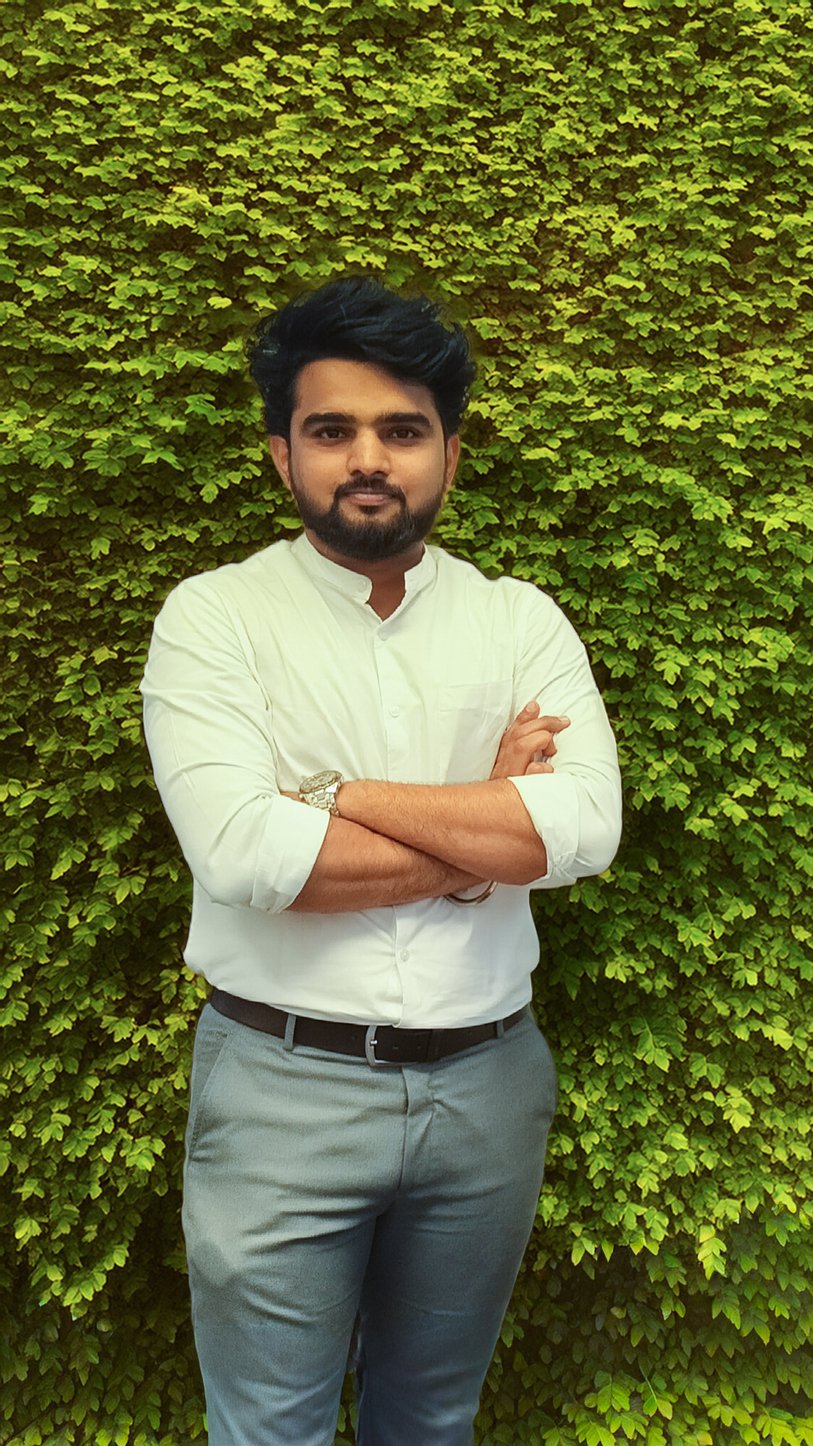
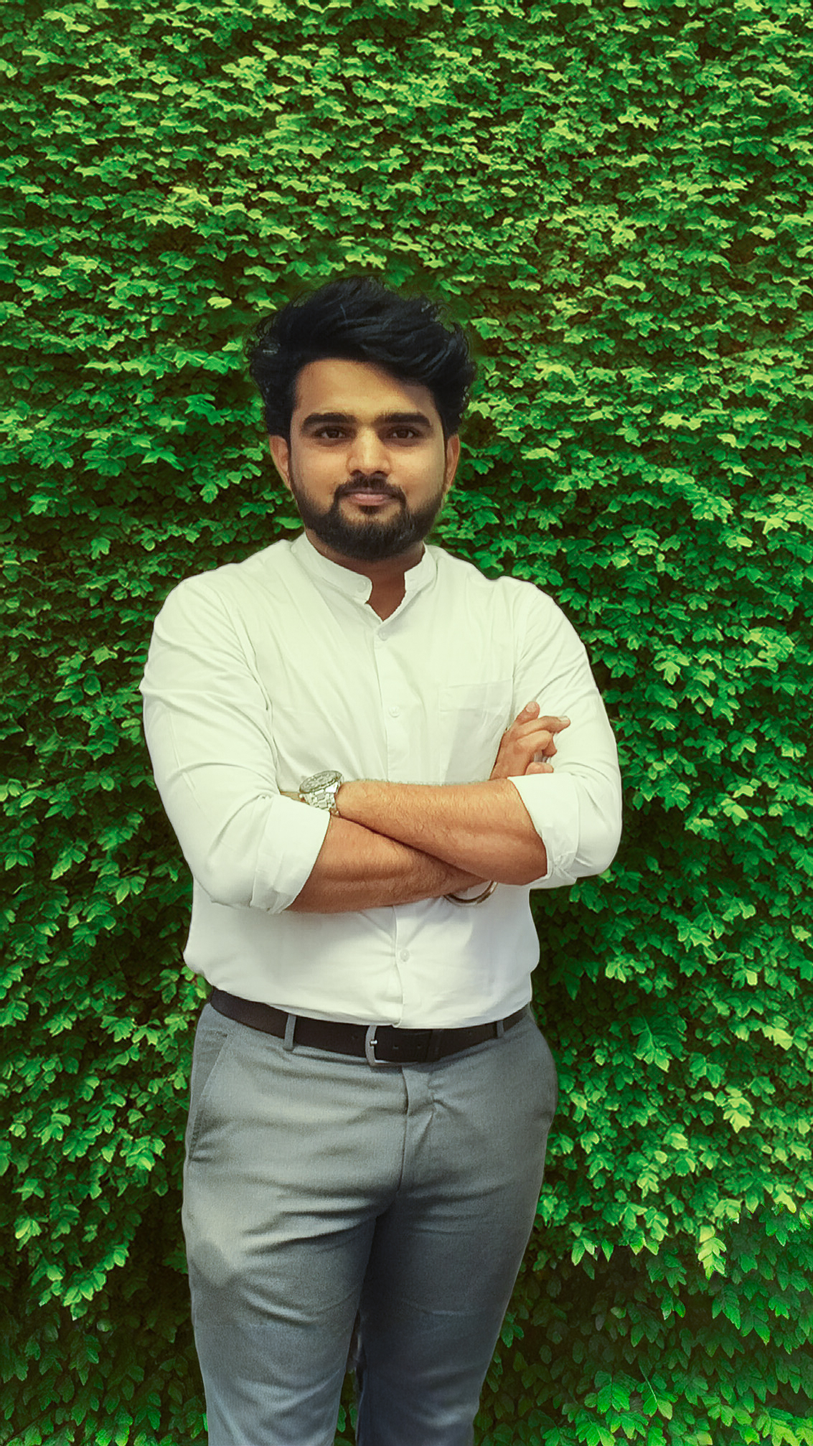
final p

diff --git a/team.html b/team.html
@@ -92,9 +92,9 @@
         data-bio="Builds relationships with ICU champions, coordinates multi-site pilots, and captures clinician feedback that guides the next sprint of product improvements."
         data-linkedin="https://www.linkedin.com/in/geet-patil"
         data-tags="CLINICAL PILOTS|PARTNERSHIPS|OPERATIONS SCALE"
-        data-photo="assessts/New%20Team/Geet%20Patil.png">
+        data-photo="assessts/New%20Team/Geet%20Patil.jpg">
         <div class="team-card__photo">
-          <img src="assessts/New%20Team/Geet%20Patil.png" alt="Portrait of Geet Patil">
+          <img src="assessts/New%20Team/Geet Patil.jpg" alt="Portrait of Geet Patil">
         </div>
         <span class="team-card__name">Geet Patil</span>
         <span class="team-card__role">Clinical Operations &amp; Partnerships</span>
@@ -186,9 +186,9 @@
             <span class="team-card__role">Consultant Anaesthesiologist &amp; Social Entrepreneur</span>
           </button>
           <button class="team-card team-card--advisor" type="button"
-            aria-label="Hemant Punekar - Senior Principal Engineer, Simulation (Synopsys)"
-            data-name="Hemant Punekar"
-            data-role="Senior Principal Engineer, Simulation (Synopsys)"
+          aria-label="Hemant Punekar - Consultancy"
+          data-name="Hemant Punekar"
+          data-role="Consultancy"
             data-bio="Senior Principal Engineer at Synopsys Inc. focusing on engineering simulations for complex products. His expertise spans engineering simulations, digital transformation, and systems thinking, backed by a strong CFD and physics-based modeling background with publications on free-surface flows and thermal management. Over 25 years he has helped global teams use simulation to improve performance, reliability, and time-to-market while enabling people and building high-performing, distributed teams. He frequently advises innovators and startups on simulation-driven product design."
             data-linkedin="https://www.linkedin.com/in/hemant-punekar"
             data-tags="ENGINEERING SIMULATION|DIGITAL TRANSFORMATION|SYSTEMS THINKING"
@@ -197,12 +197,12 @@
               <img src="assessts/Advisors/hemant-punekar.jpg" alt="Portrait of Hemant Punekar">
             </div>
             <span class="team-card__name">Hemant Punekar</span>
-            <span class="team-card__role">Senior Principal Engineer, Simulation</span>
+            <span class="team-card__role">Consultancy</span>
           </button>
           <button class="team-card team-card--advisor" type="button"
-            aria-label="Aman Midha - Connected Car Tech Leader"
-            data-name="Aman Midha"
-            data-role="Connected Car Tech Leader, Hyundai AutoEver India"
+          aria-label="Aman Midha - Consultancy and Business Mentor"
+          data-name="Aman Midha"
+          data-role="Consultancy and Business Mentor"
             data-bio="Connected Car Tech Leader at Hyundai AutoEver India working on software-driven vehicle technologies. Focused on connected cars, in-vehicle intelligence, and future mobility experiences while working end-to-end from strategy to rollout. Earlier co-founded Biosense to build affordable diagnostic devices and chronic-care solutions across India. He frequently writes about software-defined vehicles, digital twins, and data-driven mobility platforms. Across healthcare and automotive he builds socially relevant, scalable technology and advises innovators at the intersection of impact and mobility."
             data-linkedin="https://www.linkedin.com/in/amanmidha"
             data-tags="CONNECTED CARS|SOFTWARE-DEFINED VEHICLES|IMPACT TECH"
@@ -211,7 +211,7 @@
               <img src="assessts/Advisors/aman-midha.jpg" alt="Portrait of Aman Midha">
             </div>
             <span class="team-card__name">Aman Midha</span>
-            <span class="team-card__role">Connected Car Tech Leader</span>
+            <span class="team-card__role">Consultancy and Business Mentor</span>
           </button>
         </div>
       </div>

diff --git a/index.html b/index.html
@@ -297,7 +297,7 @@
                 </span>
                 <div>
                   <h5>Stable Clinical Frontend</h5>
-                  <p>Workflows, screens, and device handling stay the same�no retraining for clinicians.</p>
+                  <p>Workflows, screens, and device handling stay the same, no retraining for clinicians.</p>
                 </div>
               </li>
               <li>
@@ -397,7 +397,7 @@
           <noscript>
             <article class="contact-location-card">
               <div class="contact-location">
-                <h5>Mumbai HQ</h5>
+                <h5>ForschMedX Mumbai HQ</h5>
                 <p>Savannah Avalon, Andheri (E)<br>Mumbai 400059<br>Maharashtra, India</p>
               </div>
             </article>
@@ -409,7 +409,7 @@
             </article>
             <article class="contact-location-card">
               <div class="contact-location">
-                <h5>Pune Lab</h5>
+                <h5>ForschMedX @ Venture Center</h5>
                 <p>100 NCL Innovation Park Dr. Homi Bhabha Road<br>Pune 411008<br>Maharashtra, India</p>
               </div>
             </article>
@@ -570,8 +570,8 @@
     if (contactLocationsEl) {
       const locationData = [
         {
-          name: 'Mumbai HQ',
-          mapTitle: 'Mumbai Headquarters Map',
+          name: 'ForschMedX Mumbai HQ',
+          mapTitle: 'ForschMedX Mumbai HQ Map',
           mapSrc: 'https://www.google.com/maps?q=Savannah+Avalon,+Andheri+(E),+Mumbai&output=embed',
           lines: ['Savannah Avalon, Andheri (E)', 'Mumbai 400059', 'Maharashtra, India']
         },
@@ -582,10 +582,10 @@
           lines: ['VJTI, H R Mahajani Marg, Matunga', 'Mumbai 400019', 'Maharashtra, India']
         },
         {
-          name: 'Pune Lab',
-          mapTitle: 'Pune Lab Map',
+          name: 'ForschMedX @ Venture Center',
+          mapTitle: 'ForschMedX @ Venture Center',
           mapSrc: 'https://www.google.com/maps?q=100+NCL+Innovation+Park,+Dr.+Homi+Bhabha+Road,+Pune&output=embed',
-          lines: [ '100 NCL Innovation Park', 'Dr. Homi Bhabha Road', 'Pune 411008 Maharashtra, India']
+          lines: ['100 NCL Innovation Park Dr. Homi Bhabha Road', 'Pune 411008', 'Maharashtra, India']
         }
       ];
 
@@ -708,4 +708,3 @@
   </script>
 </body>
 </html>
-
